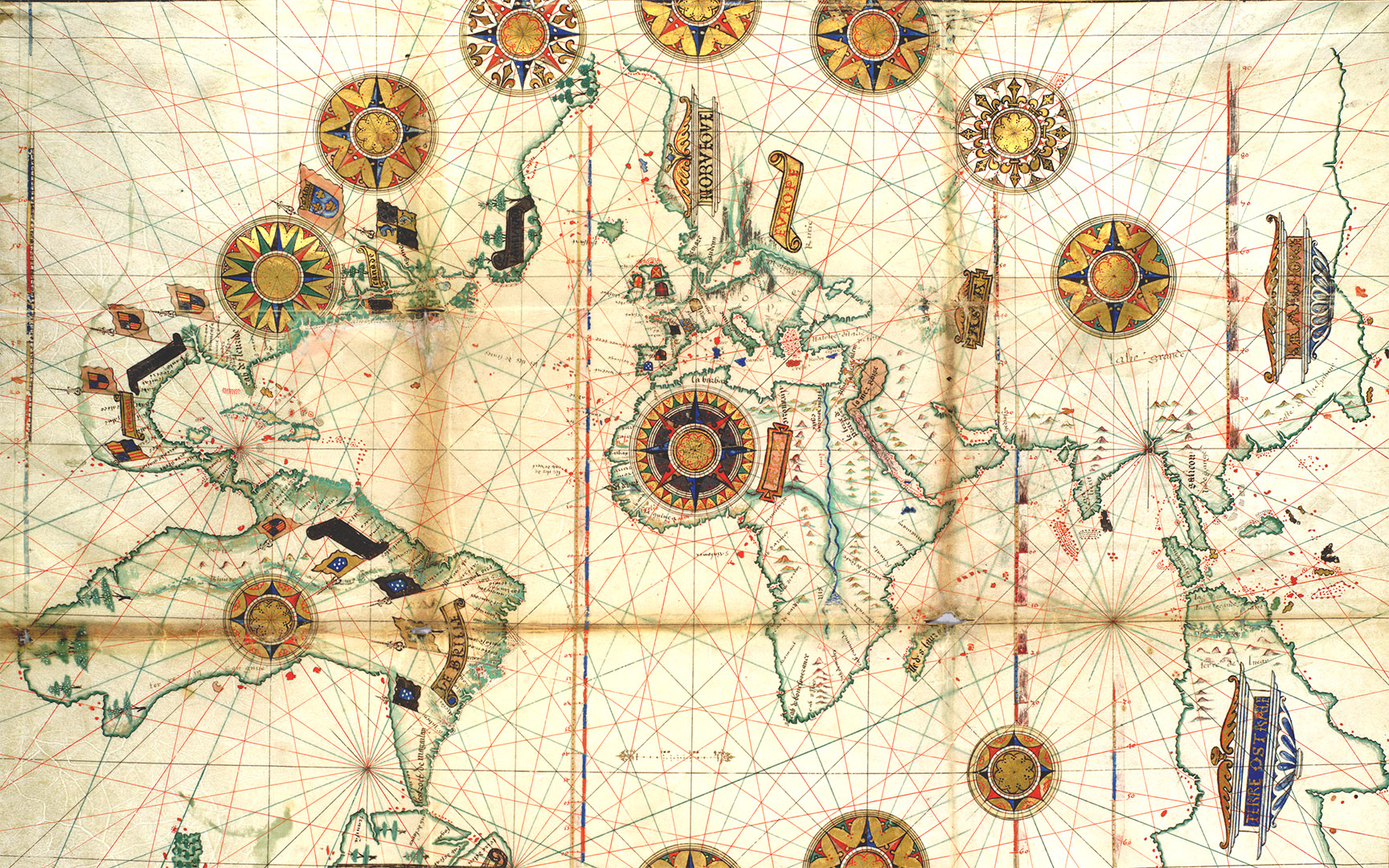
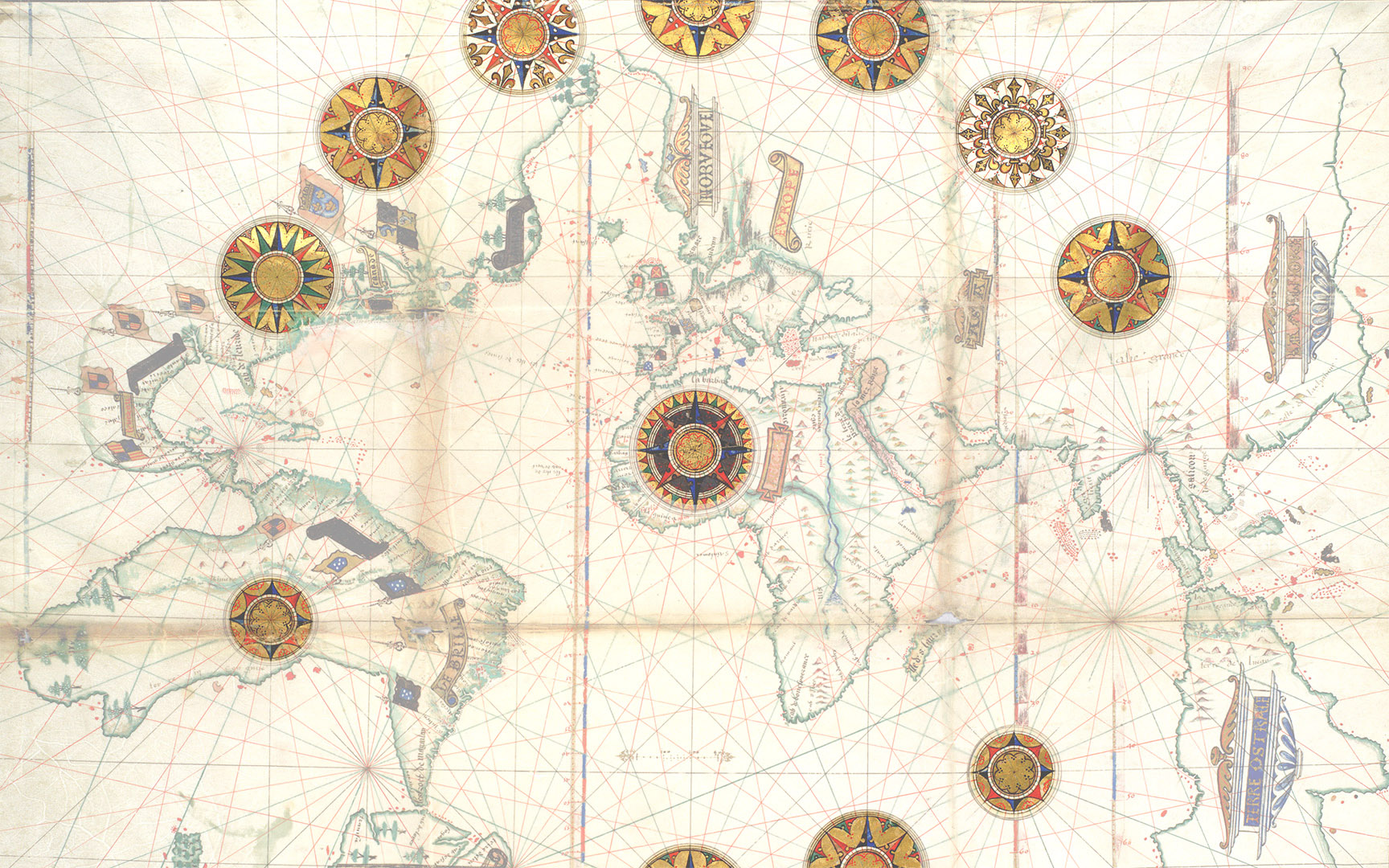
Styling search results and business profile

diff --git a/app/assets/stylesheets/foundation_and_overrides.scss b/app/assets/stylesheets/foundation_and_overrides.scss
@@ -15,7 +15,7 @@
 // $em-base: 16px;
 
 // We use these to control various global styles
-$body-bg: #090909 image_url('map_bg.jpg') no-repeat top;
+$body-bg: #d2cec1 image_url('map_bg.jpg') no-repeat top;
 // $body-font-color: #222;
 // $body-font-family: "Helvetica Neue", "Helvetica", Helvetica, Arial, sans-serif;
 // $body-font-weight: normal;
@@ -65,7 +65,7 @@ $body-bg: #090909 image_url('map_bg.jpg') no-repeat top;
 // Grid Variables
 //
 
-// $row-width: 62.5em;
+ $row-width: 100%;
 // $column-gutter: 1.875em;
 // $total-columns: 12;
 
@@ -968,7 +968,8 @@ $input-font-size: emCalc(24px);
 //
 
 // Background color for the top bar
-$topbar-bg: rgba(86, 119, 86, 0.35);
+//rgba(86, 119, 86, 0.35)
+$topbar-bg: rgba(86, 119, 86, 0);
 
 // Height and margin
 $topbar-height: 135px;

diff --git a/app/assets/stylesheets/main/businesses.css.sass b/app/assets/stylesheets/main/businesses.css.sass
@@ -2,10 +2,18 @@
 // They will automatically be included in application.css.
 // You can use Sass (SCSS) here: http://sass-lang.com/
 body.businesses
-  .businesses
-    background: white
+
+
     
   .business
+    background: rgba(255, 255, 255, 0.95)
+    padding: 5px 0 5px 0
+    margin-bottom: 5px
+    +border-radius(5px)
     h2
       line-height: 1
       margin: 0
+      
+  .thumb
+    width: 100%
+

diff --git a/app/assets/stylesheets/main/pages.css.sass b/app/assets/stylesheets/main/pages.css.sass
@@ -3,6 +3,14 @@
 // You can use Sass (SCSS) here: http://sass-lang.com/
 
 #pages-landing
+
   .top-bar .top-bar-section   
     form.search
       display: none
+ 
+  form.search
+    padding: 11em 0 0
+    .submit
+      cursor: pointer
+      height: 45px
+
